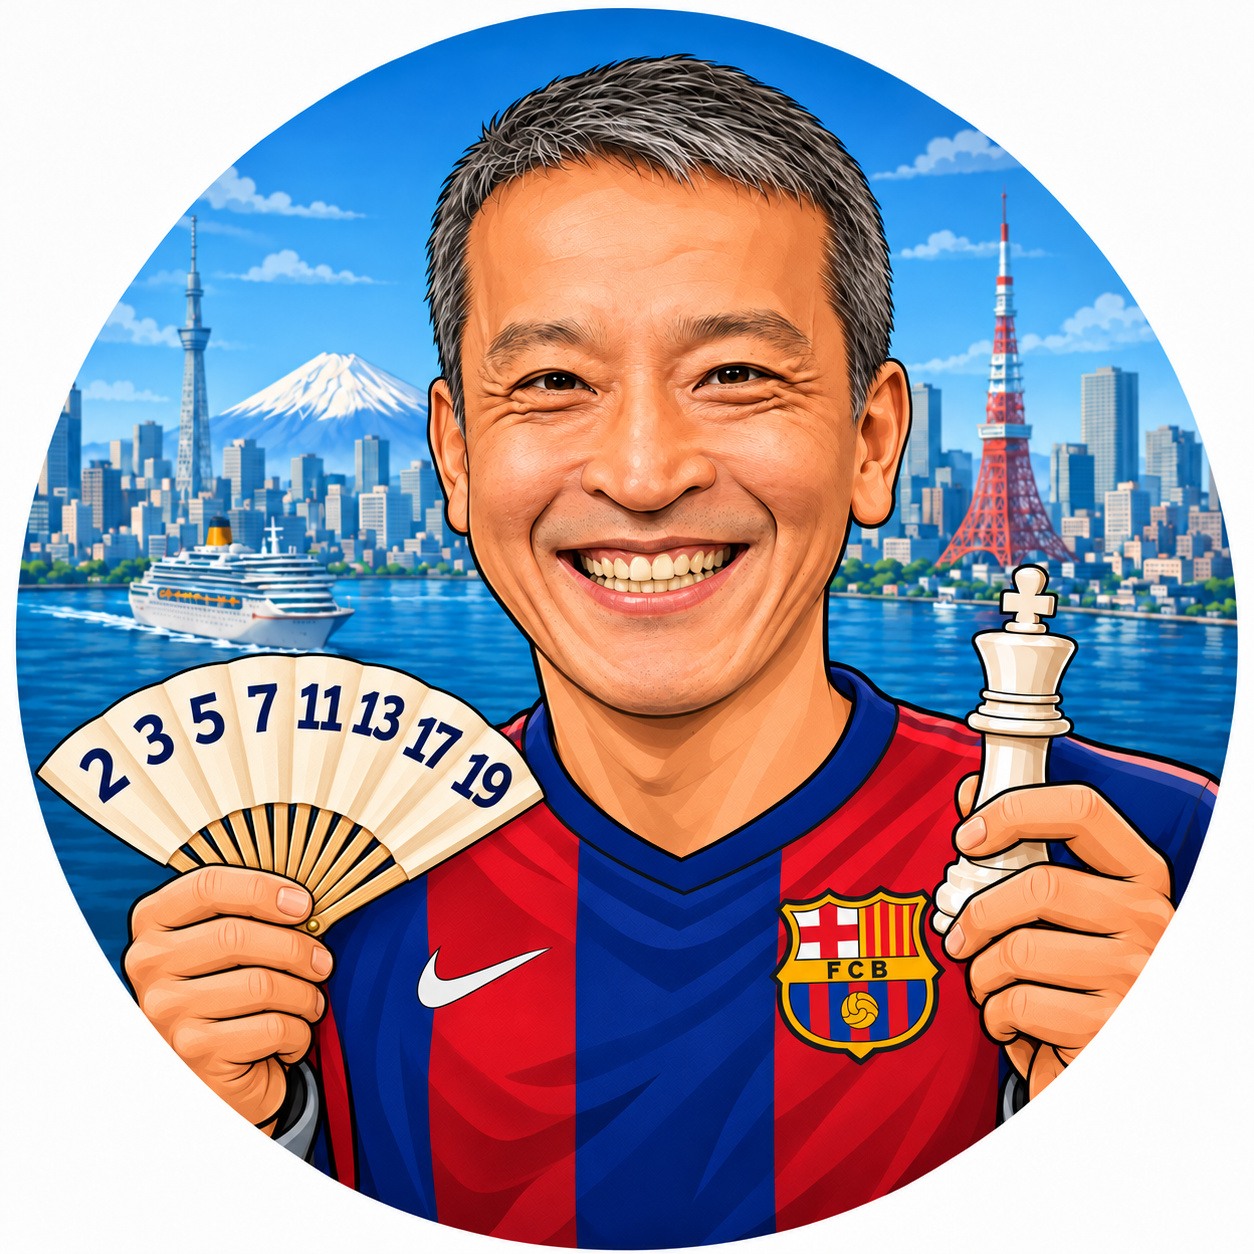
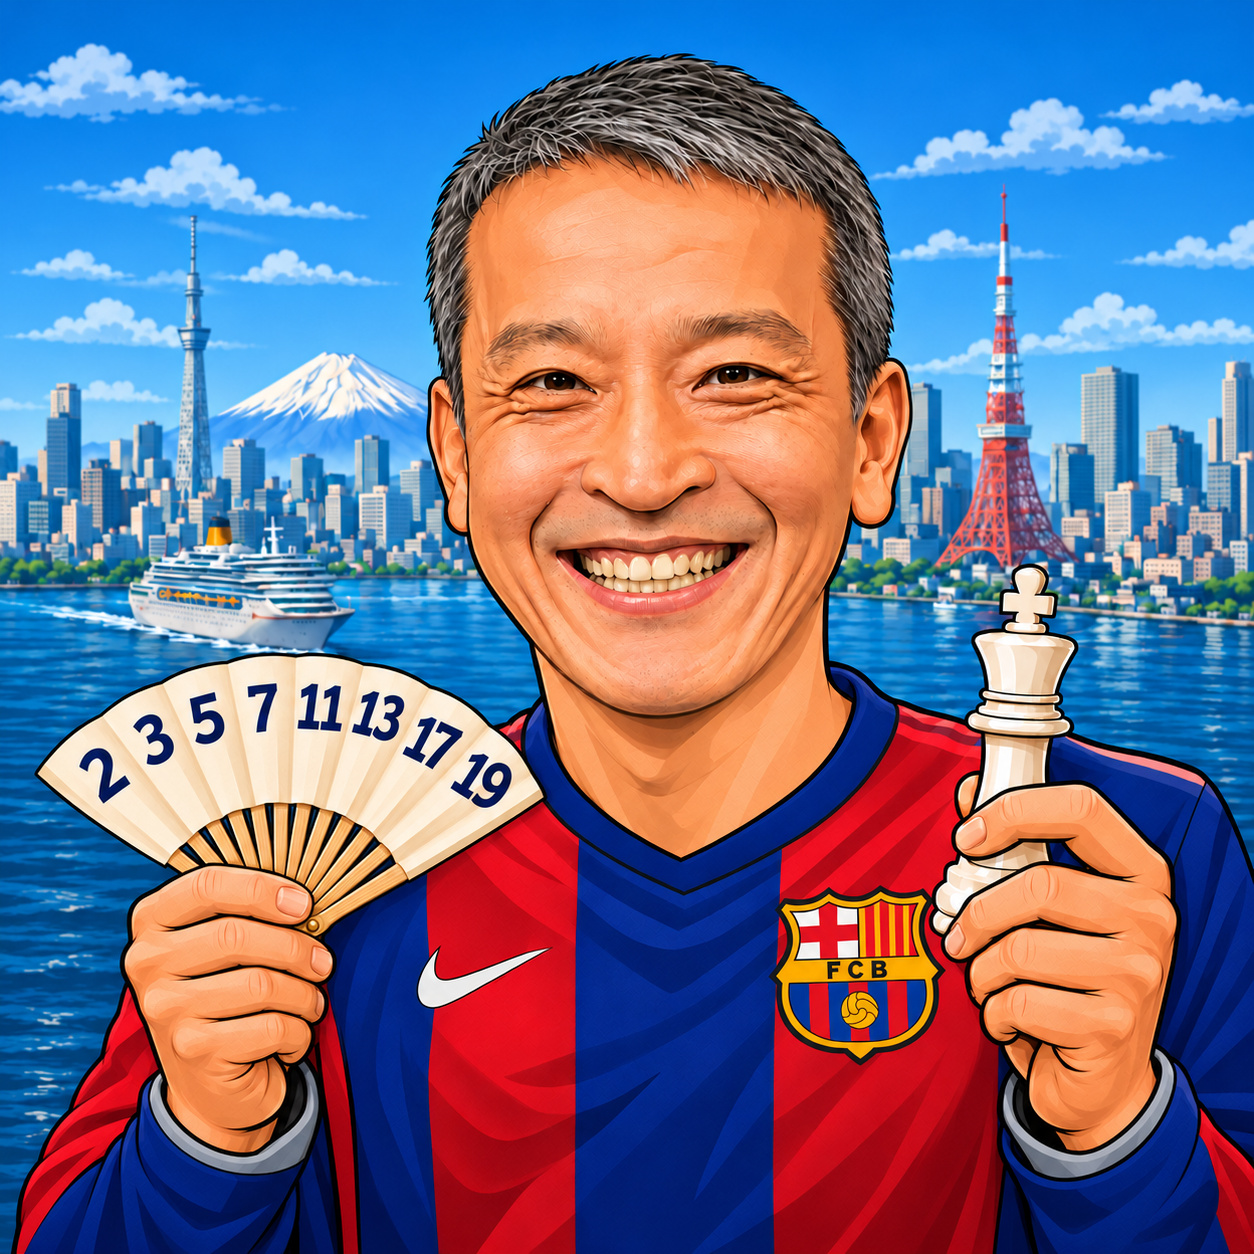
Apply Hiro’s approved full-bleed circle correction

diff --git a/MAINTENANCE-RUNBOOK.md b/MAINTENANCE-RUNBOOK.md
@@ -1010,10 +1010,12 @@ and Name Tent chat owns his PDF replacement on the Photos drive.
 ## Hiro avatar
 
 Hiro (`hiro`) uses the approved November 24 lossless PNG at
-`images/players/hiro-613aca6cd5167a8d.png` (1254×1254). Copy the exact v5 source
-`output/avatars/hiro/hiro-v5-prime-number-fan.png` without regenerating it;
[1 lines of base64/hex data omitted]
-The approved portrait has his current short salt-and-pepper hair, Barcelona
+`images/players/hiro-99e824230355a648.png` (1254×1254). Copy the exact full-bleed v6 source
+`output/avatars/hiro/hiro-v6-full-bleed-master.png` without regenerating it;
[1 lines of base64/hex data omitted]
+The opaque square master extends color to every edge; retain the site’s centered
+circular masks with no inset white padding or crescent. The approved portrait
+has his current short salt-and-pepper hair, Barcelona
 jersey, white chess king and folding fan showing 2, 3, 5, 7, 11, 13, 17, 19.
 Shared metadata and the data build propagate the content-versioned image to
 current site surfaces and the automatic RSVP/Cashier directory readers.
